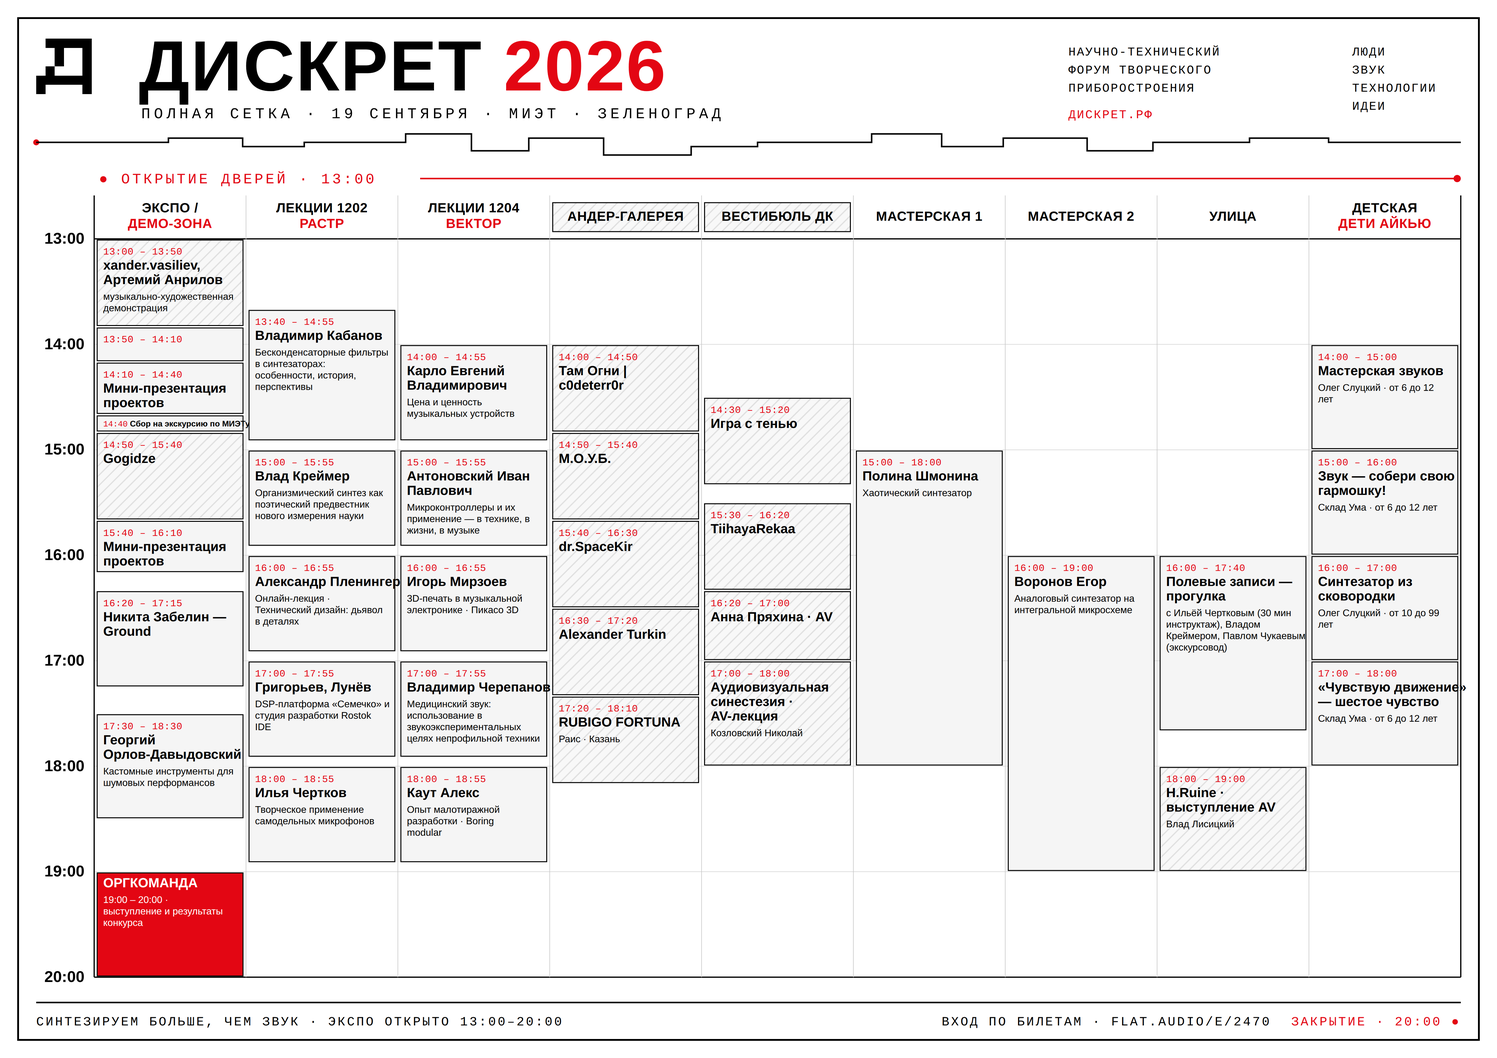
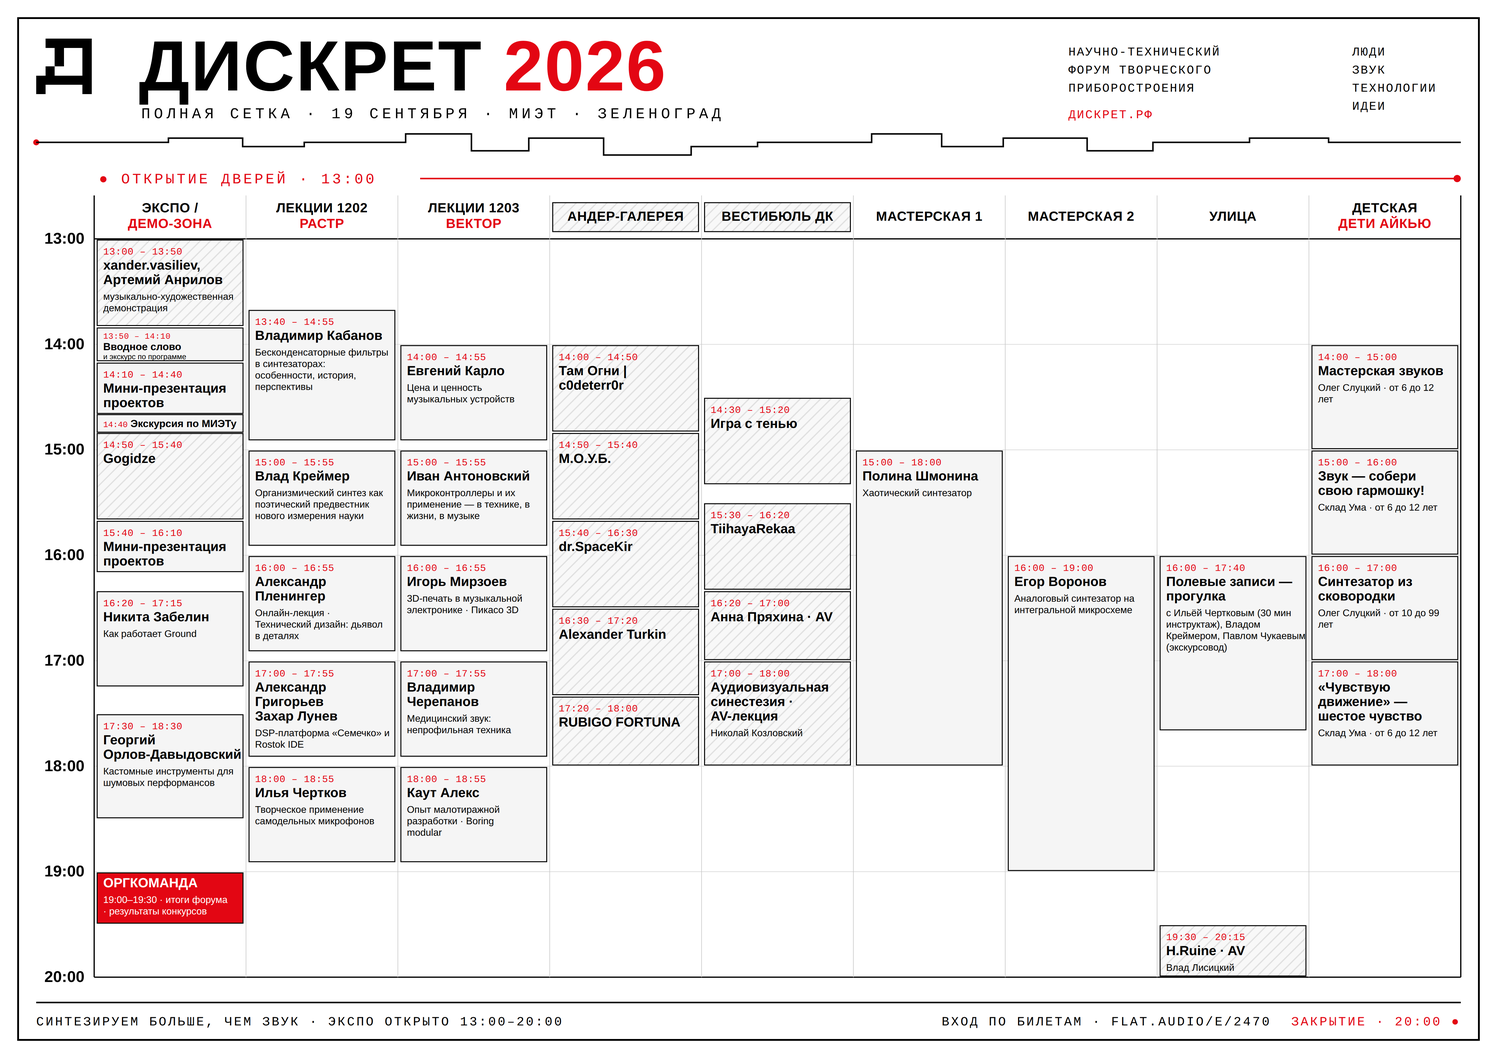
Правки сетки: тайминги, имена без отчеств, переносы, зал 1203; синхронизация приложения и программы
Claude-Session: https://claude.ai/code/session_01J7cakNvVwscKzgnd8yf78u

diff --git a/branding/app/index.html b/branding/app/index.html
@@ -700,16 +700,16 @@ const SCHED = [
   { t:"16:00", e:"16:55", title:"3D-печать в музыкальной электронике", who:"Игорь Мирзоев · Пикасо 3D", room:"l2" },
   { t:"16:20", e:"17:15", title:"Как работает Ground", who:"Никита Забелин", room:"hall" },
   { t:"15:40", e:"16:30", title:"dr.SpaceKir", who:"", room:"ug", author:"spacekir" },
-  { t:"18:00", e:"19:00", title:"H.Ruine · выступление AV", who:"Влад Лисицкий", room:"st", author:"lisitsky" },
+  { t:"19:30", e:"20:15", title:"H.Ruine · выступление AV", who:"Влад Лисицкий", room:"st", author:"lisitsky" },
   { t:"17:00", e:"17:55", title:"DSP-платформа «Семечко» и студия разработки Rostok IDE", who:"Александр Григорьев и Захар Лунев", room:"l1" },
   { t:"17:00", e:"17:55", title:"Медицинский звук: использование в звукоэкспериментальных целях непрофильной техники", who:"Владимир Черепанов", room:"l2" },
   { t:"17:30", e:"18:30", title:"Кастомные инструменты для шумовых перформансов", who:"Георгий Орлов-Давыдовский", room:"hall" },
   { t:"16:30", e:"17:20", title:"Alexander Turkin", who:"", room:"ug", author:"turkin" },
-  { t:"17:20", e:"18:10", title:"RUBIGO FORTUNA", who:"Раис · Казань", room:"ug", author:"fortuna" },
+  { t:"17:20", e:"18:00", title:"RUBIGO FORTUNA", who:"", room:"ug", author:"fortuna" },
   { t:"18:00", e:"18:55", title:"Творческое применение самодельных микрофонов", who:"Илья Чертков", room:"l1", author:"chertkov" },
   { t:"17:00", e:"18:00", title:"Аудиовизуальная синестезия · AV-лекция", who:"Николай Козловский", room:"vb" },
   { t:"18:00", e:"18:55", title:"Опыт малотиражной разработки", who:"Алекс Каут · Boring modular", room:"l2" },
-  { t:"19:00", e:"20:00", title:"Выступление оргкоманды · результаты конкурса", who:"", room:"hall" },
+  { t:"19:00", e:"19:30", title:"Оргкоманда · итоги форума и результаты конкурсов", who:"", room:"hall" },
 ];
 
 // ===== АВТОРЫ / СПИКЕРЫ (страницы-заготовки, наполняются данными) =====
@@ -727,7 +727,7 @@ const A = [
   { id:"voronov", name:"Егор Воронов", role:"Воркшоп · Аналоговый синтезатор на интегральной микросхеме · 4567 ₽", session:"ВОРКШОП", room:"w2", time:"16:00–19:00", photos:[], links:[],
     desc:"Каждый участник соберёт собственный аналоговый синтезатор на интегральной микросхеме. Занятие подойдёт новичкам и любителям электроники, которые хотят освоить пайку на практике и получить законченное работающее устройство: выводные компоненты, назначение основных деталей, последовательность сборки платы; желающие попробуют монтаж SMD. Предварительный опыт не обязателен — ведущий объяснит приёмы и поможет на каждом этапе. Все компоненты включены в стоимость; собранный синтезатор участник проверяет в работе и забирает с собой." },
   { id:"totoro", name:"Карманная драм-машина", role:"Воркшоп · сборка своими руками · 5000 ₽", session:"ВОРКШОП", room:"w2", time:"16:00–19:00", photos:[], links:[], desc:"Воркшоп по сборке карманной драм-машины своими руками." },
-  { id:"lisitsky", name:"H.Ruine · Влад Лисицкий", role:"Live IDM + лазерное шоу · Москва", session:"AV", room:"st", time:"18:00–19:00", photos:["hruine1"],
+  { id:"lisitsky", name:"H.Ruine · Влад Лисицкий", role:"Live IDM + лазерное шоу · Москва", session:"AV", room:"st", time:"19:30–20:15", photos:["hruine1"],
     links:[{t:"BAND.LINK",u:"https://band.link/hruine"},{t:"САЙТ",u:"https://www.vladlisits.ru/music"},{t:"BANDCAMP",u:"https://hruine.bandcamp.com"},{t:"SOUNDCLOUD",u:"https://soundcloud.com/hruine-music"},{t:"YOUTUBE",u:"https://youtube.com/@hruine"},{t:"VK",u:"https://vk.com/h.ruine"}],
     desc:"Сольный live-IDM проект московского художника и мультиинструменталиста Влада Лисицкого: хаотичная, абстрактная электроника, неустанные эксперименты со звуковыми текстурами и ритмами — мрачный, сложный и тревожный саунд, несущий в каждом треке набор неосязаемых ассоциаций и образов. На ДИСКРЕТЕ Влад представит лазерное шоу в прозрачных сферах и сыграет треки с грядущего альбома." },
     { id:"shadow", name:"Игра с тенью", role:"Оптическая хореография · Светлана Гончар", session:"ЛАЙВ", room:"vb", time:"14:30–15:20", photos:["shadow1","shadow2"],
@@ -749,7 +749,7 @@ const A = [
   { id:"pryahina", name:"Анна Пряхина", role:"AV-выступление · Вестибюль ДК", session:"ЛАЙВ", room:"vb", time:"16:20–17:00", photos:[], links:[], desc:"" },
   { id:"anrilov", name:"xandr.vasiliev vs Артемий Анрилов", role:"Совместный лайв на Twang Modular · дебют дуэта", session:"ЛАЙВ", room:"hall", time:"13:00–13:50", photos:[], links:[],
     desc:"Музыканты, давно связанные годами творческой работы, но ни разу не выступавшие вместе. Артемий Анрилов работает в электронной музыке с 1990-х: от ранних экспериментов в компьютерных трекерах до глубокого погружения в аналоговый и модульный синтез; в основе его языка — тембр, модуляция и внутренняя динамика звука. Основатель лейбла Fragment, куратор Signal Music Residency, резидент Resonance Moscow. xandr.vasiliev — московский музыкант и композитор: электроника, постиндустриальный шум, минимализм и кинематографический саундскейп; резидент Resonance Moscow, преподаватель продакшна, микс- и мастеринг-инженер, участник фестивалей Signal, Outline, Gamma, NUR и Дягилевского. Оба используют исключительно модули Twang Modular: совместный лайв — дебют дуэта и презентация возможностей системы, диалог двух авторских подходов в реальном времени на единой платформе." },
-  { id:"fortuna", name:"RUBIGO FORTUNA", role:"Лайв · Казань", session:"ЛАЙВ", room:"ug", time:"17:20–18:10", photos:[],
+  { id:"fortuna", name:"RUBIGO FORTUNA", role:"Лайв · Казань", session:"ЛАЙВ", room:"ug", time:"17:20–18:00", photos:[],
     links:[{t:"TG",u:"https://t.me/valveamplifier"}],
     desc:"Проект Раиса — артиста из Казани. Выступит на сцене АНДЕР-ГАЛЕРЕЯ — подвале электроакустических звуков и технологичных полотен. Сет в 17:20." },
   { id:"turkin", name:"Alexander Turkin", role:"Живая электроника · Pulsar-23", session:"ЛАЙВ", room:"ug", time:"16:30–17:20", photos:[],

diff --git a/branding/tools/gen_setka.js b/branding/tools/gen_setka.js
@@ -20,7 +20,7 @@ const CX0=GX0+TCOL;
 const NC=9, CW=(GX1-CX0)/NC;
 
 const COLS=[
-  ['ЭКСПО /','ДЕМО-ЗОНА'],['ЛЕКЦИИ 1202','РАСТР'],['ЛЕКЦИИ 1204','ВЕКТОР'],
+  ['ЭКСПО /','ДЕМО-ЗОНА'],['ЛЕКЦИИ 1202','РАСТР'],['ЛЕКЦИИ 1203','ВЕКТОР'],
   ['АНДЕР-ГАЛЕРЕЯ',''],['ВЕСТИБЮЛЬ ДК',''],['МАСТЕРСКАЯ 1',''],['МАСТЕРСКАЯ 2',''],
   ['УЛИЦА',''],['ДЕТСКАЯ','ДЕТИ АЙКЬЮ'],
 ];
@@ -29,37 +29,37 @@ const DARKCOLS=[3,4]; // ночные сцены — инверсия
 // t1,t2 в минутах от 13:00 · style: g=серый, h=штриховка, d=ночной тёмный, r=красный
 const EV=[
   [0, 0,  50,'h','xander.vasiliev, Артемий Анрилов','музыкально-художественная демонстрация'],
-  [0, 50, 70,'g','Вводное слово','и небольшой экскурс по программе форума'],
+  [0, 50, 70,'g','Вводное слово','и экскурс по программе'],
   [0, 70, 100,'g','Мини-презентация проектов',''],
-  [0, 100,110,'g','Сбор на экскурсию по МИЭТу',''],
+  [0, 100,110,'g','Экскурсия по МИЭТу',''],
   [0, 110,160,'h','Gogidze',''],
   [0, 160,190,'g','Мини-презентация проектов',''],
-  [0, 200,255,'g','Никита Забелин — Ground',''],
+  [0, 200,255,'g','Никита Забелин','Как работает Ground'],
   [0, 270,330,'g','Георгий Орлов-Давыдовский','Кастомные инструменты для шумовых перформансов'],
-  [0, 360,420,'r','ОРГКОМАНДА','19:00 – 20:00 · выступление и результаты конкурса'],
+  [0, 360,390,'r','ОРГКОМАНДА','19:00–19:30 · итоги форума · результаты конкурсов'],
   [1, 40, 115,'g','Владимир Кабанов','Бесконденсаторные фильтры в синтезаторах: особенности, история, перспективы'],
   [1, 120,175,'g','Влад Креймер','Организмический синтез как поэтический предвестник нового измерения науки'],
   [1, 180,235,'g','Александр Пленингер','Онлайн-лекция · Технический дизайн: дьявол в деталях'],
-  [1, 240,295,'g','Григорьев, Лунёв','DSP-платформа «Семечко» и студия разработки Rostok IDE'],
+  [1, 240,295,'g','Александр Григорьев\nЗахар Лунев','DSP-платформа «Семечко» и Rostok IDE'],
   [1, 300,355,'g','Илья Чертков','Творческое применение самодельных микрофонов'],
-  [2, 60, 115,'g','Карло Евгений Владимирович','Цена и ценность музыкальных устройств'],
-  [2, 120,175,'g','Антоновский Иван Павлович','Микроконтроллеры и их применение — в технике, в жизни, в музыке'],
+  [2, 60, 115,'g','Евгений Карло','Цена и ценность музыкальных устройств'],
+  [2, 120,175,'g','Иван Антоновский','Микроконтроллеры и их применение — в технике, в жизни, в музыке'],
   [2, 180,235,'g','Игорь Мирзоев','3D-печать в музыкальной электронике · Пикасо 3D'],
-  [2, 240,295,'g','Владимир Черепанов','Медицинский звук: использование в звукоэкспериментальных целях непрофильной техники'],
+  [2, 240,295,'g','Владимир Черепанов','Медицинский звук: непрофильная техника'],
   [2, 300,355,'g','Каут Алекс','Опыт малотиражной разработки · Boring modular'],
   [3, 60, 110,'h','Там Огни | c0deterr0r',''],
   [3, 110,160,'h','М.О.У.Б.',''],
   [3, 160,210,'h','dr.SpaceKir',''],
   [3, 210,260,'h','Alexander Turkin',''],
-  [3, 260,310,'h','RUBIGO FORTUNA','Раис · Казань'],
+  [3, 260,300,'h','RUBIGO FORTUNA',''],
   [4, 90, 140,'h','Игра с тенью',''],
   [4, 150,200,'h','TiihayaRekaa',''],
   [4, 200,240,'h','Анна Пряхина · AV',''],
-  [4, 240,300,'h','Аудиовизуальная синестезия · AV-лекция','Козловский Николай'],
+  [4, 240,300,'h','Аудиовизуальная синестезия · AV-лекция','Николай Козловский'],
   [5, 120,300,'g','Полина Шмонина','Хаотический синтезатор'],
-  [6, 180,360,'g','Воронов Егор','Аналоговый синтезатор на интегральной микросхеме'],
+  [6, 180,360,'g','Егор Воронов','Аналоговый синтезатор на интегральной микросхеме'],
   [7, 180,280,'g','Полевые записи — прогулка','с Ильёй Чертковым (30 мин инструктаж), Владом Креймером, Павлом Чукаевым (экскурсовод)'],
-  [7, 300,360,'h','H.Ruine · выступление AV','Влад Лисицкий'],
+  [7, 390,420,'h','H.Ruine · AV','Влад Лисицкий','19:30 – 20:15'],
   [8, 60, 120,'g','Мастерская звуков','Олег Слуцкий · от 6 до 12 лет'],
   [8, 120,180,'g','Звук — собери свою гармошку!','Склад Ума · от 6 до 12 лет'],
   [8, 180,240,'g','Синтезатор из сковородки','Олег Слуцкий · от 10 до 99 лет'],
@@ -68,24 +68,32 @@ const EV=[
 
 function fmt(m){ const h=13+Math.floor(m/60), mm=m%60; return `${h}:${String(mm).padStart(2,'0')}`; }
 
-function cell(c,t1,t2,st,title,desc){
+function cell(c,t1,t2,st,title,desc,tl){
   const x=CX0+c*CW+5, w=CW-10;
   const y=GY0+t1*PH+2, h=(t2-t1)*PH-4;
   const fill = st==='r' ? '#E30613' : st==='d' ? '#111111' : st==='h' ? 'url(#th)' : '#f5f5f5';
   const tc  = (st==='r'||st==='d') ? '#FFF' : '#000';
   const timc= st==='r' ? '#FFF' : st==='d' ? '#FF5560' : '#E30613';
-  let out=`<rect x="${x}" y="${y}" width="${w.toFixed(1)}" height="${h.toFixed(1)}" fill="${fill}" stroke="#000" stroke-width="1.6"/>\n`;
+  const short = (t2-t1)<=15;
+  const ry = short ? y-2 : y, rh = short ? h+4 : h;
+  let out=`<rect x="${x}" y="${ry.toFixed(1)}" width="${w.toFixed(1)}" height="${rh.toFixed(1)}" fill="${fill}" stroke="#000" stroke-width="1.6"/>\n`;
   const pad=x+10, maxY=y+h-6;
-  if(t2-t1<=15){
-    out+=`<text x="${pad}" y="${y+h/2+5}" font-weight="800" font-size="13.5" fill="${tc}"><tspan font-family="'Courier New',monospace" font-weight="400" fill="${timc}">${fmt(t1)}</tspan> ${esc(title)}</text>\n`;
+  if(short){
+    out+=`<text x="${pad}" y="${y+h/2+6}" font-weight="800" font-size="17" fill="${tc}"><tspan font-family="'Courier New',monospace" font-weight="400" font-size="13.5" fill="${timc}">${fmt(t1)}</tspan> ${esc(title)}</text>\n`;
+    return out;
+  }
+  if(t2-t1<=25){
+    out+=`<text x="${pad}" y="${y+18}" font-family="'Courier New',monospace" font-size="13.5" letter-spacing="0.5" fill="${timc}">${tl || (fmt(t1)+' – '+fmt(t2))}</text>\n`;
+    out+=`<text x="${pad}" y="${y+37}" font-weight="800" font-size="17" fill="${tc}">${esc(title)}</text>\n`;
+    if(desc) out+=`<text x="${pad}" y="${y+52}" font-size="12.5" fill="${tc}">${esc(desc)}</text>\n`;
     return out;
   }
   let ty=y+24;
   if(st!=='r'){
-    out+=`<text x="${pad}" y="${ty}" font-family="'Courier New',monospace" font-size="16" letter-spacing="0.5" fill="${timc}">${fmt(t1)} – ${fmt(t2)}</text>\n`;
+    out+=`<text x="${pad}" y="${ty}" font-family="'Courier New',monospace" font-size="16" letter-spacing="0.5" fill="${timc}">${tl || (fmt(t1)+' – '+fmt(t2))}</text>\n`;
     ty+=25;
   }
-  for(const l of wrap(title,19)){
+  for(const l of title.split('\n').flatMap(p=>wrap(p,17))){
     if(ty>maxY) return out;
     out+=`<text x="${pad}" y="${ty}" font-weight="800" font-size="22" fill="${tc}">${esc(l)}</text>\n`;
     ty+=24;

diff --git a/branding/tools/gen_programma.js b/branding/tools/gen_programma.js
@@ -13,7 +13,7 @@ const LEFT = [
     '16:20 Как работает Ground · Забелин',
     '17:30 Кастомные инструменты для',
     '      шумовых перформансов',
-    '19:00 Оргкоманда · итоги конкурса',
+    '19:00 Оргкоманда · итоги форума',
   ]],
   ['СЦЕНА АНДЕР-ГАЛЕРЕЯ', [
     '14:00 Там Огни | c0deterr0r',
@@ -48,7 +48,7 @@ const RIGHT = [
     '15:00 Хаотический синтезатор · Шмонина',
     '16:00 Аналоговый синтезатор · Воронов',
     '16:00 Полевые записи · улица · Чертков',
-    '18:00 H.Ruine · AV · улица',
+    '19:30 H.Ruine · AV · улица',
   ]],
   ['ДЕТСКАЯ · ЗАЛ ДЕТИ АЙКЬЮ', [
     '14:00 Мастерская звуков · 6–12 лет',
